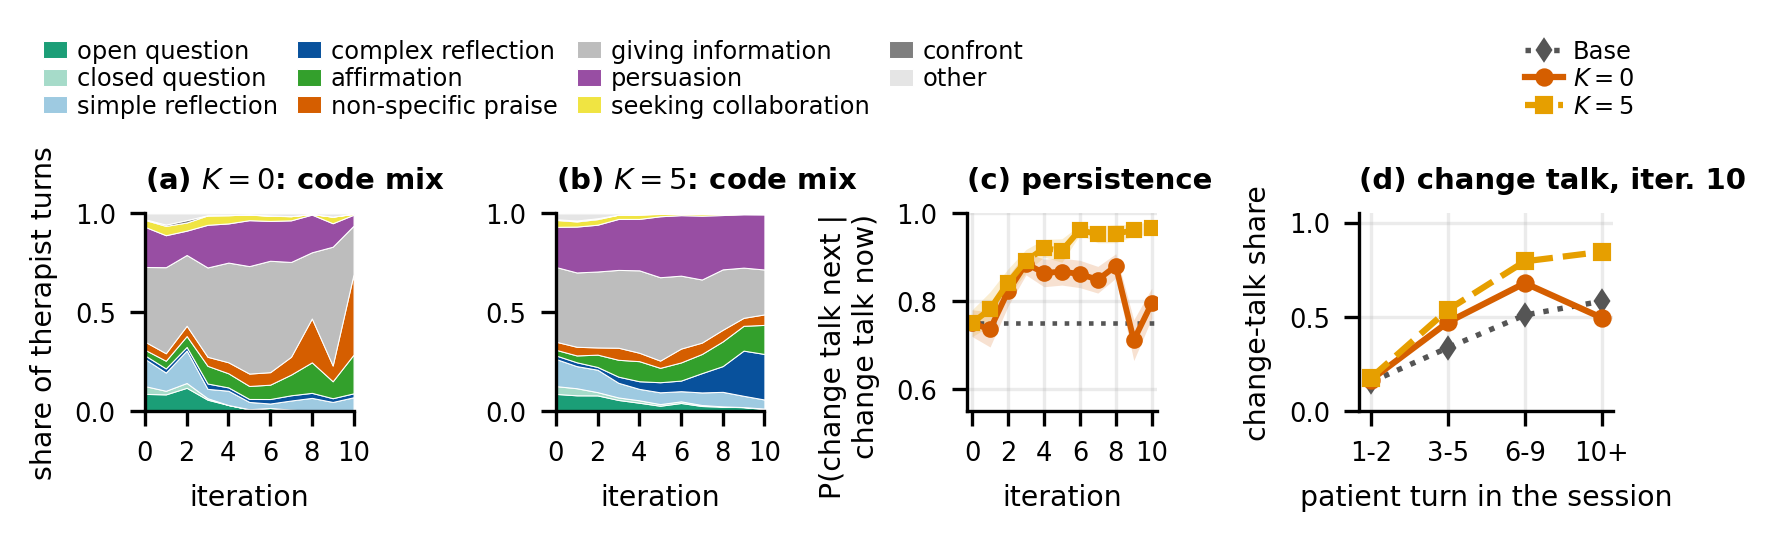
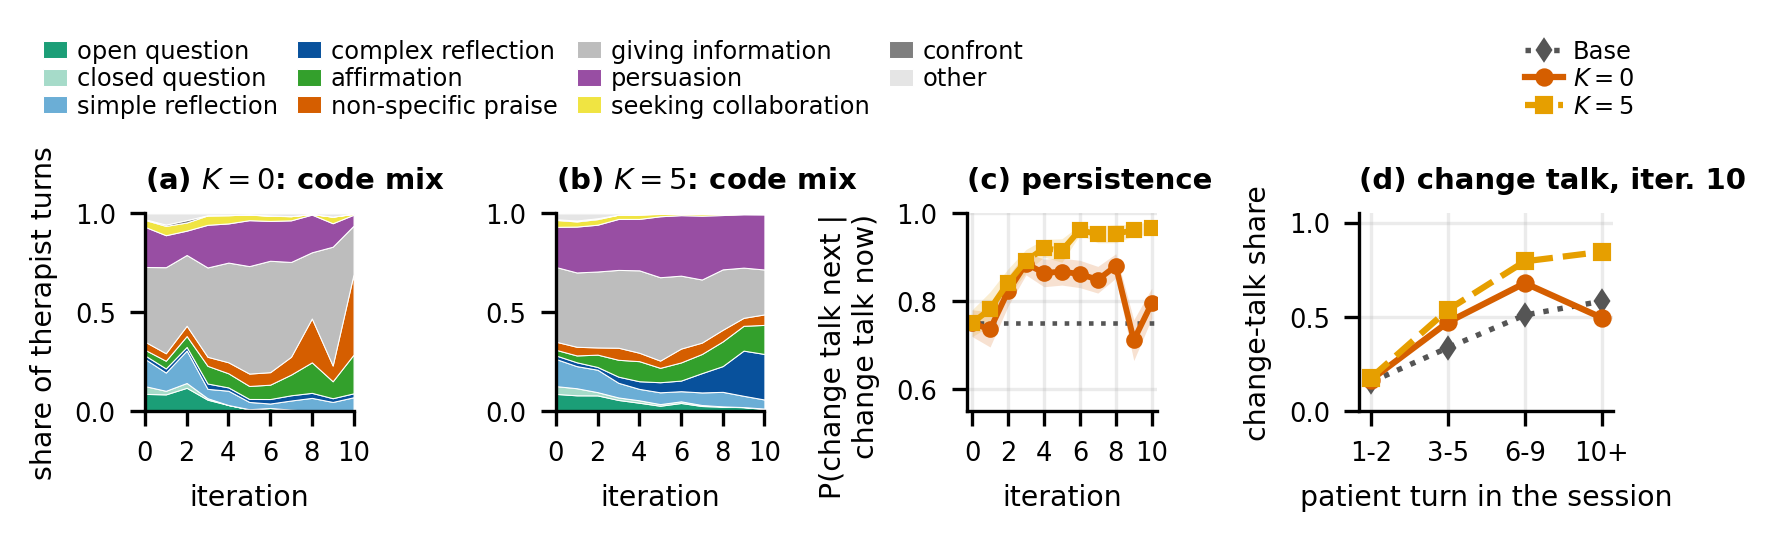
P1 Figures 3 and 8: simple reflection drawn in a mid blue (it printed as the same grey as closed question); code-table check message names Tables 3 and 7

Changed region(s): [[0.0619, 0.6506, 0.2168, 0.7689], [0.3097, 0.6802, 0.4336, 0.7689], [0.0, 0.1774, 0.0619, 0.207]]

diff --git a/papers/2026_grpo_lookahead_mi/render_paper_figures.py b/papers/2026_grpo_lookahead_mi/render_paper_figures.py
@@ -248,7 +248,7 @@ CODE_LABEL = {"OQ": "open question", "CQ": "closed question", "SR": "simple refl
               "CONF": "confront", "OTH": "other"}
 # Reflections blue, questions teal, affirmation green, praise vermilion (the turn-level hack),
 # information grey, persuasion purple, the rest light.
-CODE_COL = {"OQ": "#1b9e77", "CQ": "#a6dbc9", "SR": "#9ecae1", "CR": "#08519c", "AF": "#33a02c",
+CODE_COL = {"OQ": "#1b9e77", "CQ": "#a6dbc9", "SR": "#6baed6", "CR": "#08519c", "AF": "#33a02c",
             "PRA": "#d55e00", "GI": "#bdbdbd", "PERS": "#984ea3", "SEEK": "#f0e442",
             "CONF": "#7f7f7f", "OTH": "#e5e5e5"}
 YIELD_CODES = ["CR", "SR", "AF", "GI", "PRA", "PERS"]

diff --git a/papers/2026_grpo_lookahead_mi/render_process_tables.py b/papers/2026_grpo_lookahead_mi/render_process_tables.py
@@ -217,7 +217,7 @@ def codes() -> list[str]:
         for code, name in group:
             row = [per_judge[j][code] for j in JUDGES]
             out.append(f"{name} & " + " & ".join(row[0] + row[1]) + r"\\")
-    print("% codes: praise / complex reflection / persuasion match Tables 3 and 6", file=sys.stderr)
+    print("% codes: praise / complex reflection / persuasion match Tables 3 and 7", file=sys.stderr)
     return out
 
 
